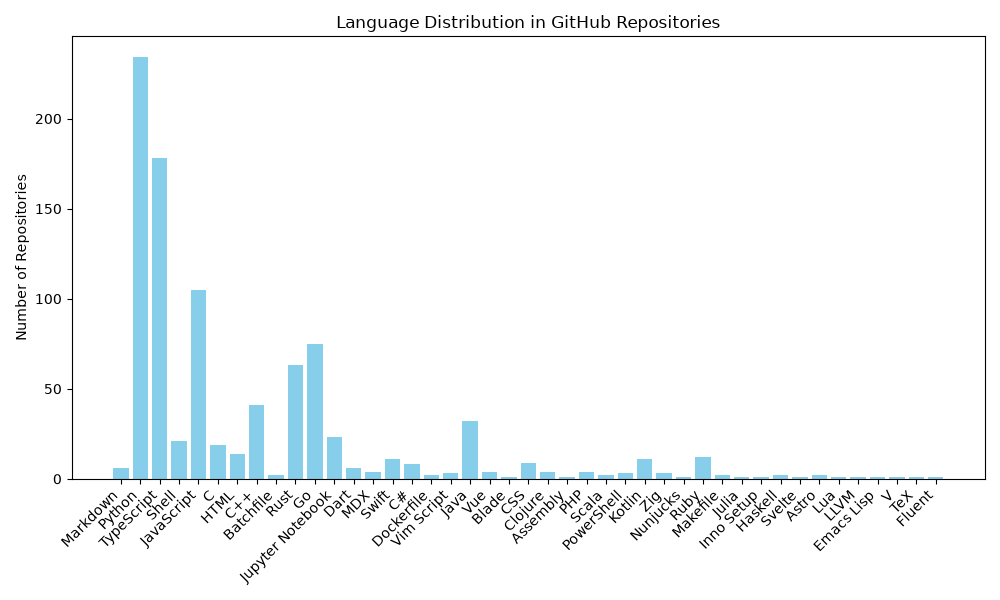
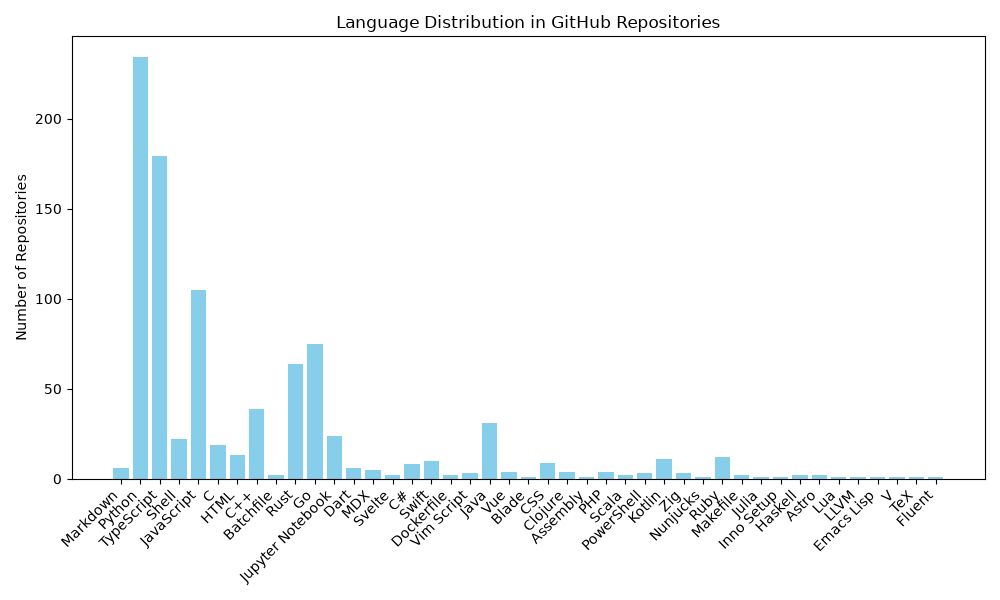
Update language distribution chart

Changed region(s): [[0.341, 0.69, 0.806, 0.93], [0.248, 0.66, 0.279, 0.69]]

diff --git a/README.md b/README.md
@@ -2,10 +2,10 @@
 
 ![Language Distribution Chart](language_distribution_bar_chart.png)
 
-Total repositories processed: 917
+Total repositories processed: 918
 
 Language distribution:
-Markdown: 6, Python: 234, TypeScript: 178, Shell: 21, JavaScript: 105, C: 19, HTML: 14, C++: 41, Batchfile: 2, Rust: 63, Go: 75, Jupyter Notebook: 23, Dart: 6, MDX: 4, Swift: 11, C#: 8, Dockerfile: 2, Vim Script: 3, Java: 32, Vue: 4, Blade: 1, CSS: 9, Clojure: 4, Assembly: 1, PHP: 4, Scala: 2, PowerShell: 3, Kotlin: 11, Zig: 3, Nunjucks: 1, Ruby: 12, Makefile: 2, Julia: 1, Inno Setup: 1, Haskell: 2, Svelte: 1, Astro: 2, Lua: 1, LLVM: 1, Emacs Lisp: 1, V: 1, TeX: 1, Fluent: 1
+Markdown: 6, Python: 234, TypeScript: 179, Shell: 22, JavaScript: 105, C: 19, HTML: 13, C++: 39, Batchfile: 2, Rust: 64, Go: 75, Jupyter Notebook: 24, Dart: 6, MDX: 5, Svelte: 2, C#: 8, Swift: 10, Dockerfile: 2, Vim Script: 3, Java: 31, Vue: 4, Blade: 1, CSS: 9, Clojure: 4, Assembly: 1, PHP: 4, Scala: 2, PowerShell: 3, Kotlin: 11, Zig: 3, Nunjucks: 1, Ruby: 12, Makefile: 2, Julia: 1, Inno Setup: 1, Haskell: 2, Astro: 2, Lua: 1, LLVM: 1, Emacs Lisp: 1, V: 1, TeX: 1, Fluent: 1
 
 
-_Last updated: 2026-11-01 03:55:00_
+_Last updated: 2026-11-08 03:58:33_
